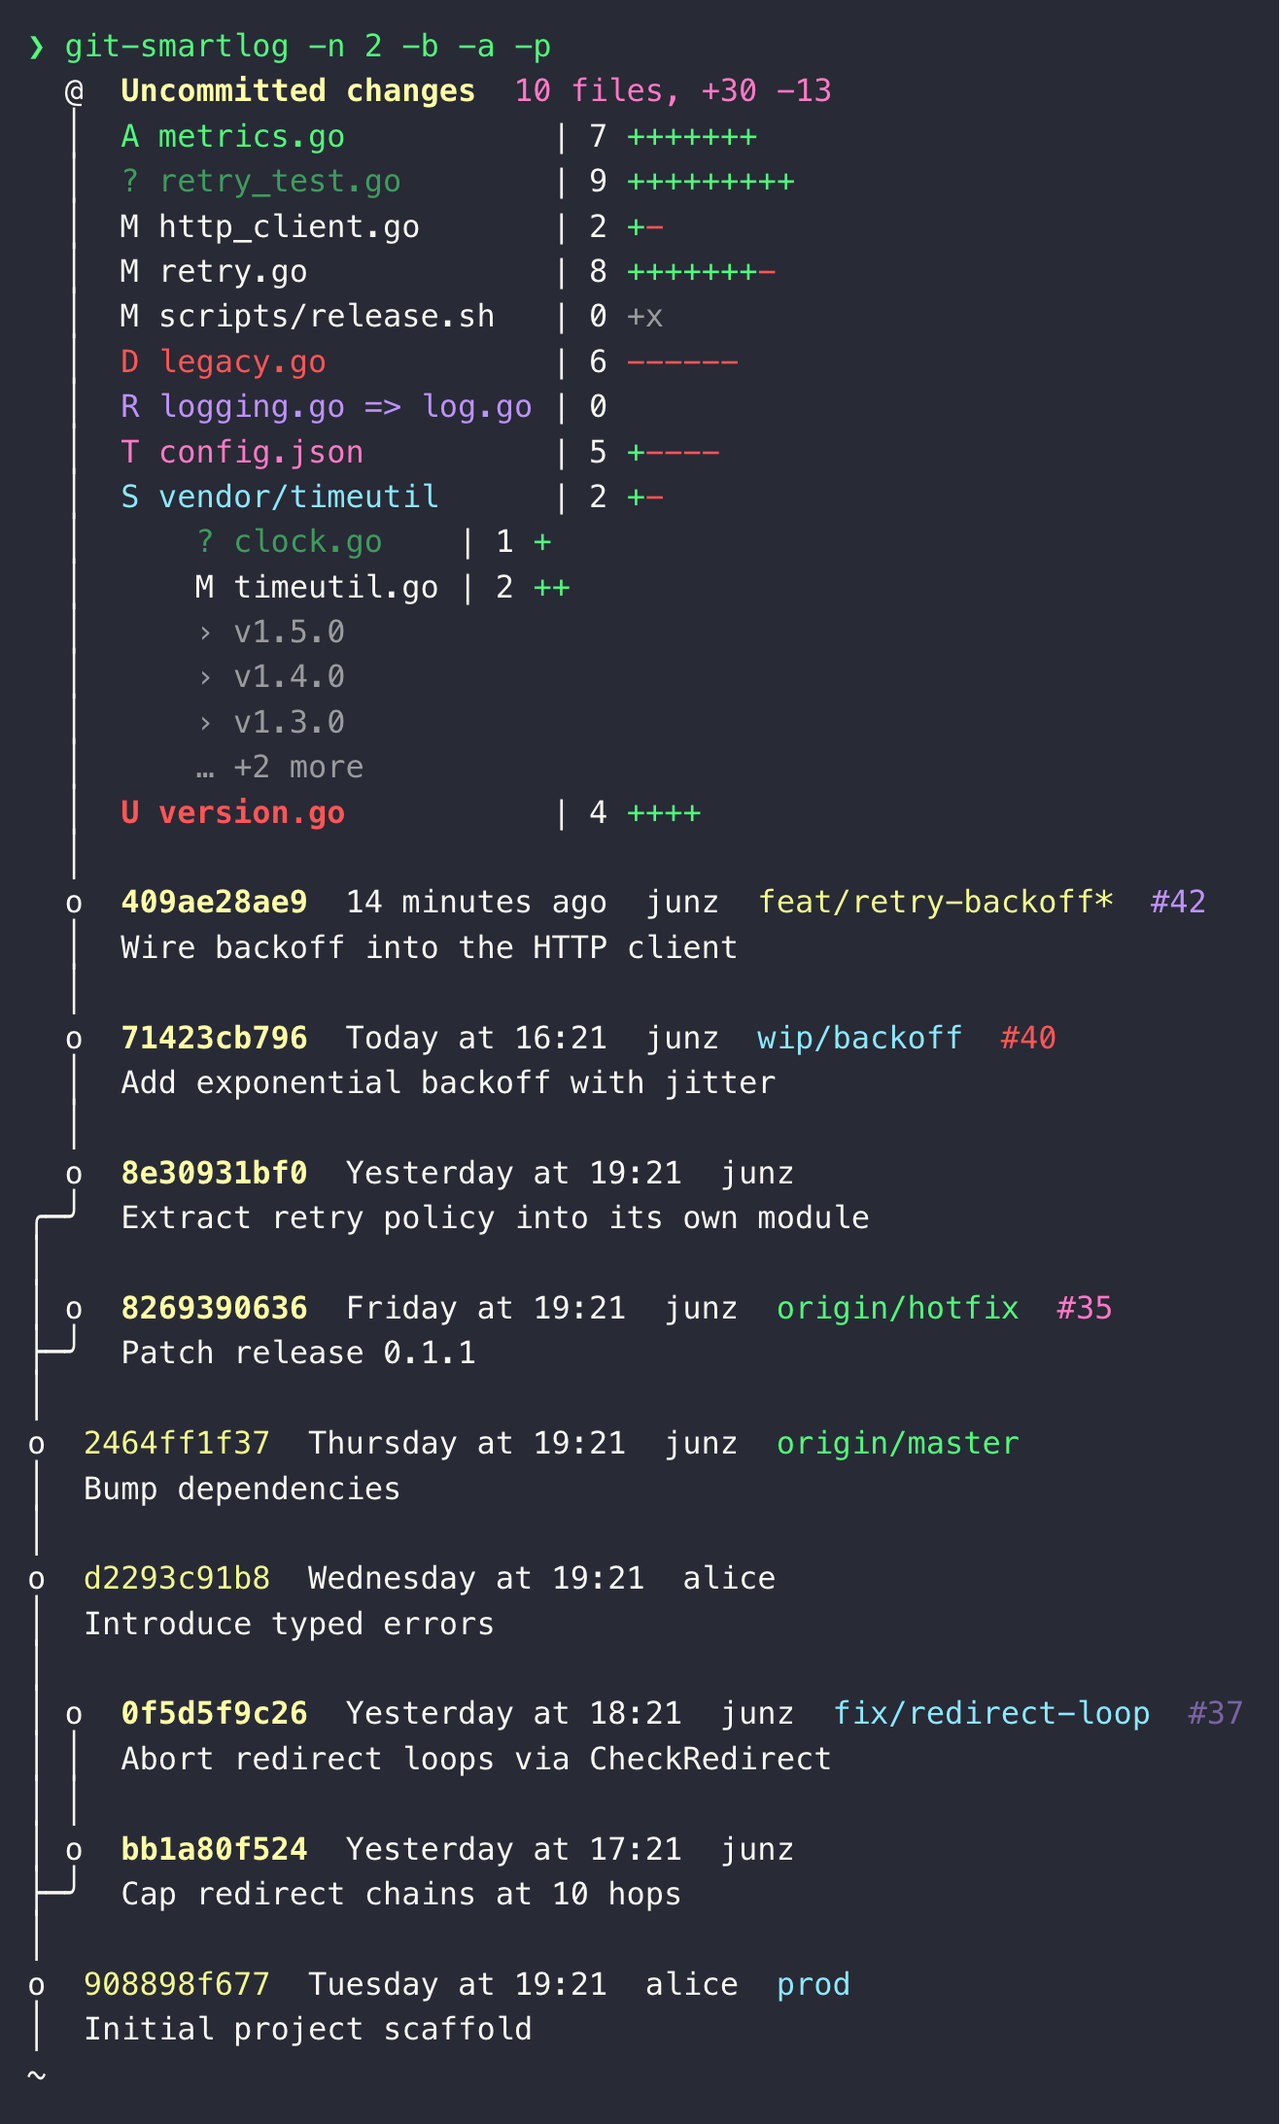
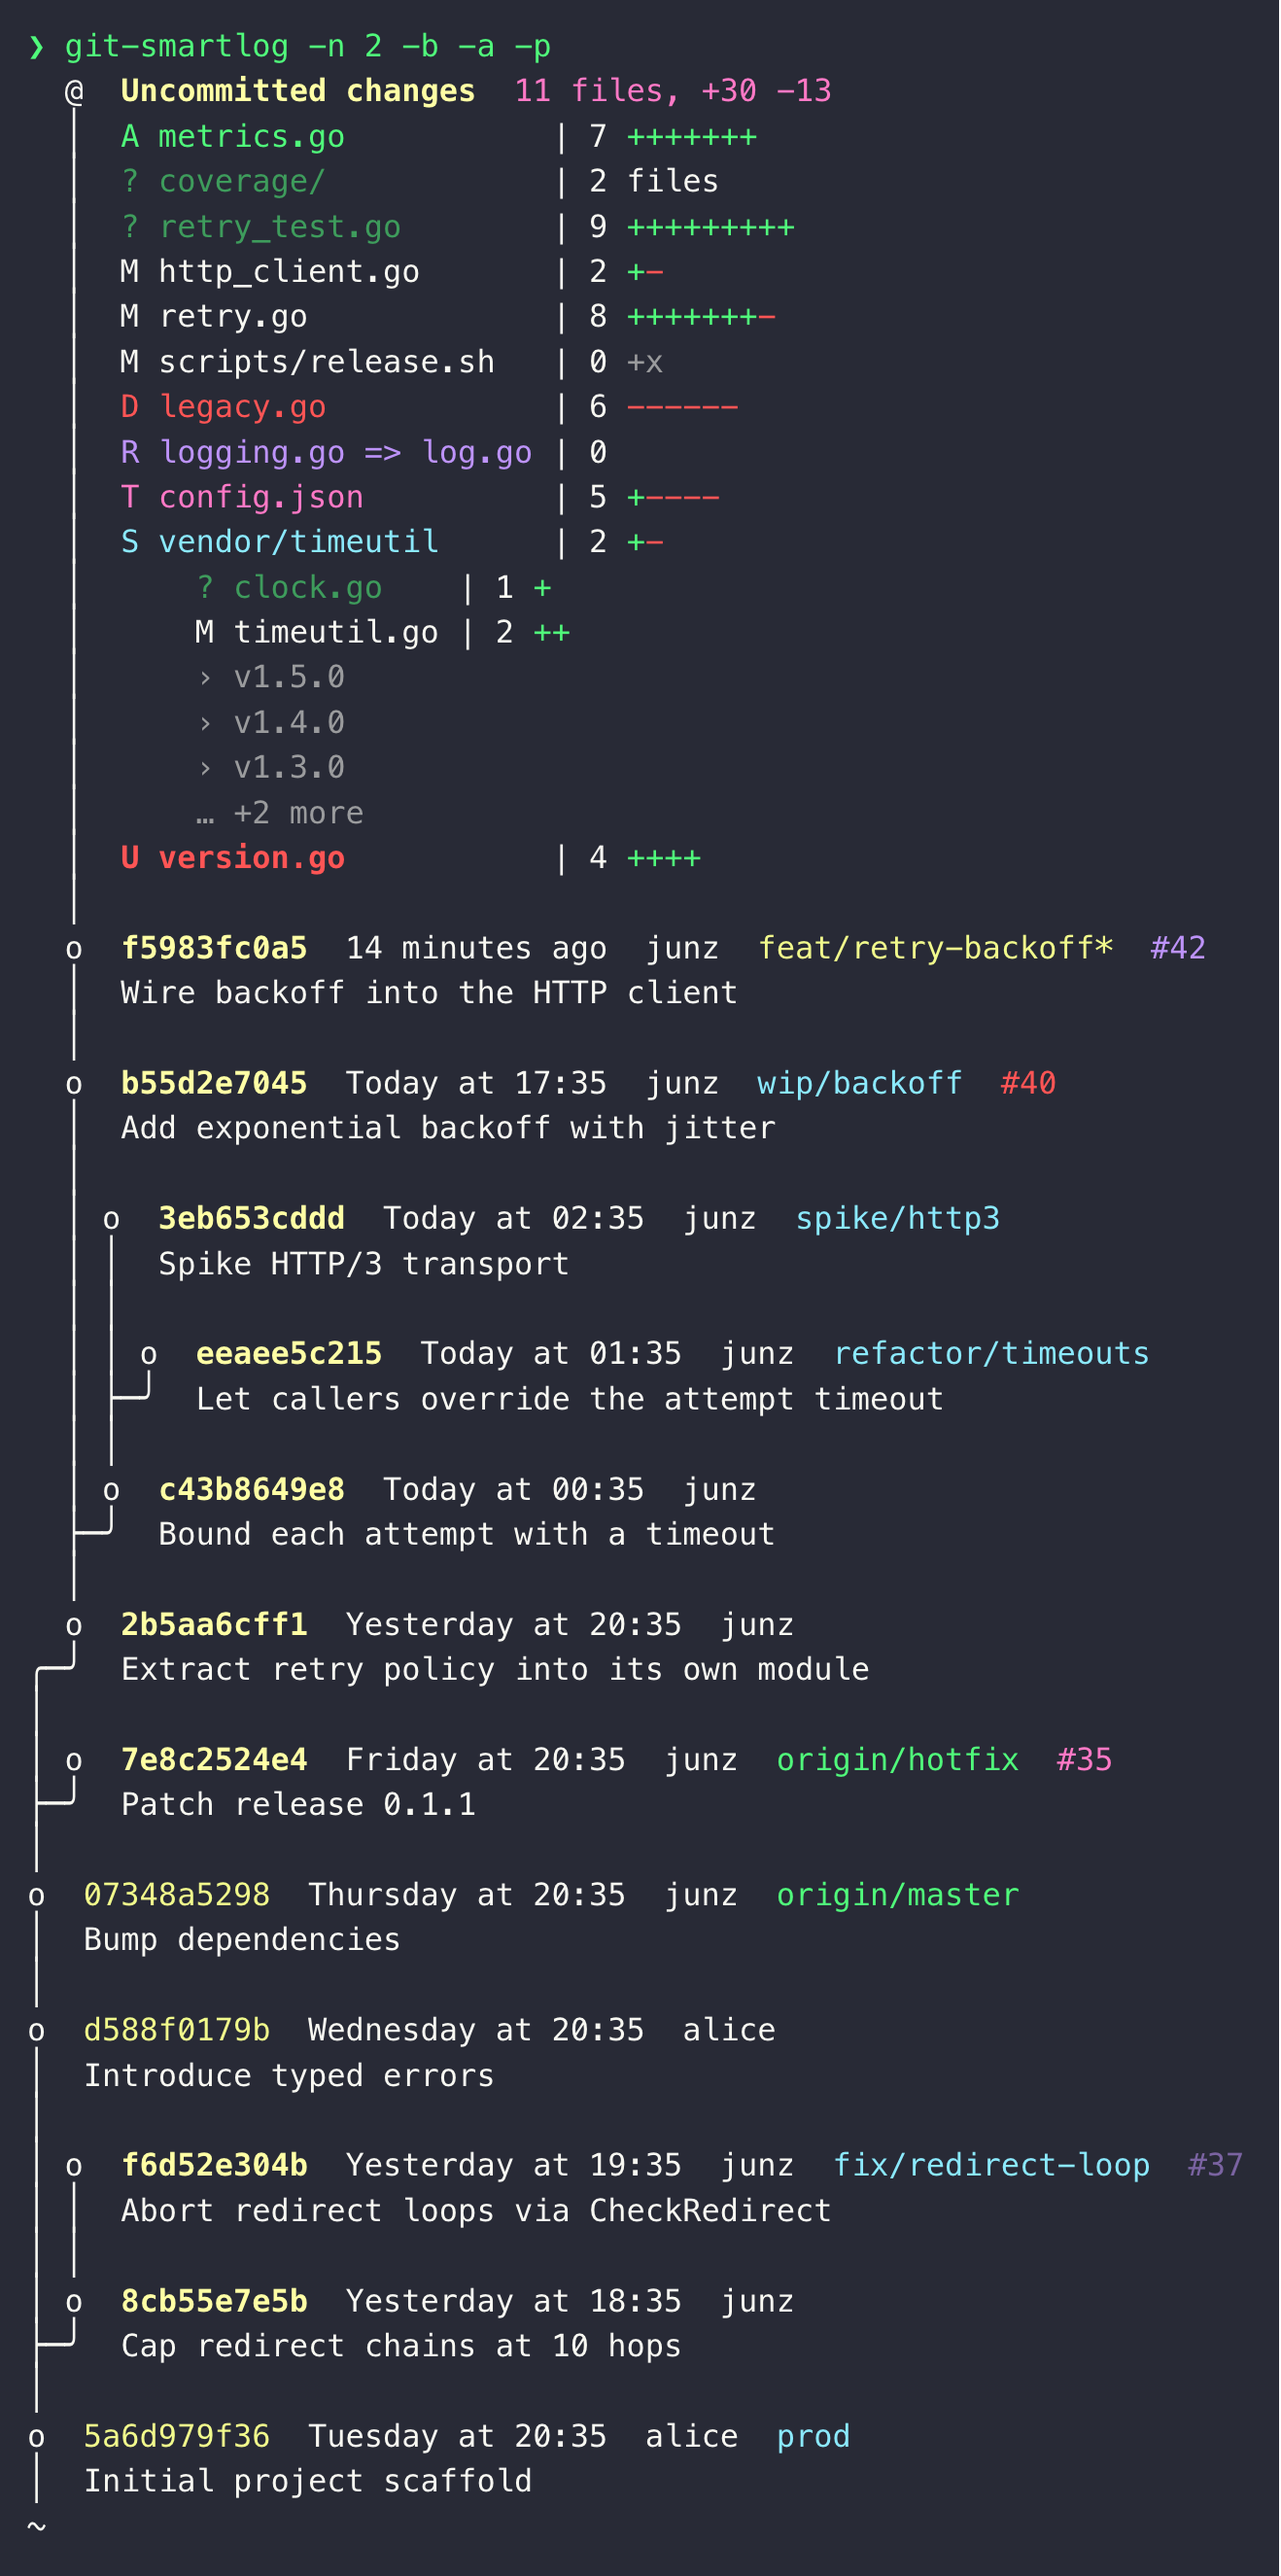
fix(demo): make every README example honest and reproducible
make-demo.sh's header says the demo covers every signal the -u node and
the -b view render. It did not. There was no wholly-untracked DIRECTORY,
so the "dir/ | N files" collapse never appeared, and no branch forking
off a DRAFT commit, so the -b forest was nothing but straight chains and
the fork layout — spine child continues the column, every other child
opens one a level deeper, closing with a ├─╯ bend — was never drawn at
all. Both signals were instead demonstrated by purpose-built repos
elsewhere, which is backwards: those existed because the demo had a hole.

So the demo grows coverage/ with two files inside, and refactor/timeouts
forking off a draft of the current stack with spike/http3 forking off a
draft of THAT branch, nesting the layout one level further. Plain -b now
draws the nesting, the dotted elision and every label rule in one graph,
and the two standalone examples fold into the blocks above them.

Separately, the first two examples were captured on a clean working tree
and never said so. That was invisible while the uncommitted node was
opt-in — plain git smartlog didn't draw one — and became load-bearing
when the node stopped being a flag. Their captures are still correct;
the precondition is now stated.

Examples and both screenshots re-captured throughout: the uncommitted
node goes from 10 files to 11.

Claude-Session: https://claude.ai/code/session_01FqXnKacDEWiXpJDjSASubY

diff --git a/README.md b/README.md
@@ -22,20 +22,21 @@ The story behind it is in
 
 ## Example
 
-On a feature branch with a few local commits stacked on `origin/master`:
+On a feature branch with a few local commits stacked on `origin/master`, with a
+clean working tree:
 
 ```text
 $ git smartlog
-  @  498df929d5  Today at 09:33  junz  feat/retry-backoff*
+  @  e6152ce8e3  14 minutes ago  junz  feat/retry-backoff*
   │  Wire backoff into the HTTP client
   │
-  o  ba482d2f0b  Today at 06:47  junz
+  o  6f1c5c322c  Today at 17:34  junz
   │  Add exponential backoff with jitter
   │
-  o  fa8075adfb  Yesterday at 09:47  junz
+  o  4166003ae8  Yesterday at 20:34  junz
 ╭─╯  Extract retry policy into its own module
 │
-o  c7283c280b  Wednesday at 09:47  junz  origin/master
+o  99b3100c38  Thursday at 20:34  junz  origin/master
 │  Bump dependencies
 ~
 ```
@@ -43,7 +44,8 @@ o  c7283c280b  Wednesday at 09:47  junz  origin/master
 `@` marks `HEAD`; the indented `o` nodes above the bend (`╭─╯`) are your unpushed
 draft commits, newest first. Below the bend sits the public base — the nearest
 pushed commit, here `origin/master` — and `~` marks the truncated history beyond
-it.
+it. This example and the next assume that clean tree: a dirty one always draws
+one more node on top, which is the section after them.
 
 Widen the public window with `-n`. Public commits authored by *someone else*
 render metadata-only (no author, no subject), exactly as Sapling does — see
@@ -53,22 +55,22 @@ public ones:
 
 ```text
 $ git smartlog -n 4
-  @  498df929d5  Today at 09:33  junz  feat/retry-backoff*
+  @  e6152ce8e3  14 minutes ago  junz  feat/retry-backoff*
   │  Wire backoff into the HTTP client
   │
-  o  ba482d2f0b  Today at 06:47  junz
+  o  6f1c5c322c  Today at 17:34  junz
   │  Add exponential backoff with jitter
   │
-  o  fa8075adfb  Yesterday at 09:47  junz
+  o  4166003ae8  Yesterday at 20:34  junz
 ╭─╯  Extract retry policy into its own module
 │
-o  c7283c280b  Wednesday at 09:47  junz  origin/master
+o  99b3100c38  Thursday at 20:34  junz  origin/master
 │  Bump dependencies
 │
-o  a21fc72b55  Tuesday at 09:47
+o  71068b2065  Wednesday at 20:34
 │
 │
-o  80cf810025  Monday at 09:47
+o  2438d674fc  Tuesday at 20:34
 │
 ~
 ```
@@ -116,8 +118,9 @@ git-smartlog extension with no Sapling equivalent, so the output no longer mirro
 
 ```text
 $ git smartlog -n 2
-  @  Uncommitted changes  10 files, +30 -13
+  @  Uncommitted changes  11 files, +30 -13
   │  A metrics.go           | 7 +++++++
+  │  ? coverage/            | 2 files
   │  ? retry_test.go        | 9 +++++++++
   │  M http_client.go       | 2 +-
   │  M retry.go             | 8 +++++++-
@@ -134,19 +137,19 @@ $ git smartlog -n 2
   │      … +2 more
   │  U version.go           | 4 ++++
   │
-  o  498df929d5  Today at 09:33  junz  feat/retry-backoff*
+  o  e6152ce8e3  14 minutes ago  junz  feat/retry-backoff*
   │  Wire backoff into the HTTP client
   │
-  o  ba482d2f0b  Today at 06:47  junz
+  o  6f1c5c322c  Today at 17:34  junz
   │  Add exponential backoff with jitter
   │
-  o  fa8075adfb  Yesterday at 09:47  junz
+  o  4166003ae8  Yesterday at 20:34  junz
 ╭─╯  Extract retry policy into its own module
 │
-o  c7283c280b  Wednesday at 09:47  junz  origin/master
+o  99b3100c38  Thursday at 20:34  junz  origin/master
 │  Bump dependencies
 │
-o  a21fc72b55  Tuesday at 09:47
+o  71068b2065  Wednesday at 20:34
 │
 ~
 ```
@@ -161,22 +164,45 @@ total in the header):
 
 ```text
 $ git smartlog -c
-  @  Uncommitted changes  1 file, +9 -0
-  │  ? retry_test.go | 9 +++++++++
+  @  Uncommitted changes  11 files, +30 -13
+  │  A metrics.go           | 7 +++++++
+  │  ? coverage/            | 2 files
+  │  ? retry_test.go        | 9 +++++++++
+  │  M http_client.go       | 2 +-
+  │  M retry.go             | 8 +++++++-
+  │  M scripts/release.sh   | 0 +x
+  │  D legacy.go            | 6 ------
+  │  R logging.go => log.go | 0
+  │  T config.json          | 5 +----
+  │  S vendor/timeutil      | 2 +-
+  │      ? clock.go    | 1 +
+  │      M timeutil.go | 2 ++
+  │      › v1.5.0
+  │      › v1.4.0
+  │      › v1.3.0
+  │      … +2 more
+  │  U version.go           | 4 ++++
   │
-  o  498df929d5  Today at 09:33  junz  feat/retry-backoff*
+  o  e6152ce8e3  14 minutes ago  junz  feat/retry-backoff*
   │  Wire backoff into the HTTP client
-  │  M http_client.go | 2 +-
-  │  M retry.go       | 8 +++++++-
-  │  2 files, +9 -1
+  │  M http_client.go | 15 ++++++++++++---
+  │  M version.go     |  2 +-
+  │  2 files, +13 -4
   │
-  o  ba482d2f0b  Today at 06:47  junz
+  o  6f1c5c322c  Today at 17:34  junz
   │  Add exponential backoff with jitter
-  │  A retry.go | 41 ++++++++++++++++++++++
-  │  1 file, +41 -0
+  │  A backoff.go | 13 +++++++++++++
+  │  M retry.go   |  7 +++++++
+  │  2 files, +20 -0
+  │
+  o  4166003ae8  Yesterday at 20:34  junz
+  │  Extract retry policy into its own module
+  │  A retry.go       | 11 +++++++++++
+  │  M http_client.go |  9 +++++----
+  │  2 files, +16 -4
 ╭─╯
 │
-o  c7283c280b  Wednesday at 09:47  junz  origin/master
+o  99b3100c38  Thursday at 20:34  junz  origin/master
 │  Bump dependencies
 ~
 ```
@@ -197,8 +223,9 @@ Alice's public commits their full headers:
 
 ```text
 $ git smartlog -n 2 -b -a
-  @  Uncommitted changes  10 files, +30 -13
+  @  Uncommitted changes  11 files, +30 -13
   │  A metrics.go           | 7 +++++++
+  │  ? coverage/            | 2 files
   │  ? retry_test.go        | 9 +++++++++
   │  M http_client.go       | 2 +-
   │  M retry.go             | 8 +++++++-
@@ -215,66 +242,112 @@ $ git smartlog -n 2 -b -a
   │      … +2 more
   │  U version.go           | 4 ++++
   │
-  o  498df929d5  Today at 09:33  junz  feat/retry-backoff*
+  o  e6152ce8e3  14 minutes ago  junz  feat/retry-backoff*
   │  Wire backoff into the HTTP client
   │
-  o  ba482d2f0b  Today at 06:47  junz  wip/backoff
+  o  6f1c5c322c  Today at 17:34  junz  wip/backoff
   │  Add exponential backoff with jitter
   │
-  o  fa8075adfb  Yesterday at 09:47  junz
+  │ o  29fd8b8adc  Today at 02:34  junz  spike/http3
+  │ │  Spike HTTP/3 transport
+  │ │
+  │ │ o  6c58835739  Today at 01:34  junz  refactor/timeouts
+  │ ├─╯  Let callers override the attempt timeout
+  │ │
+  │ o  8696775dd4  Today at 00:34  junz
+  ├─╯  Bound each attempt with a timeout
+  │
+  o  4166003ae8  Yesterday at 20:34  junz
 ╭─╯  Extract retry policy into its own module
 │
-│ o  0f9c309236  Thursday at 09:47  junz  origin/hotfix
+│ o  d34d226c1d  Friday at 20:34  junz  origin/hotfix
 ├─╯  Patch release 0.1.1
 │
-o  c7283c280b  Wednesday at 09:47  junz  origin/master
+o  99b3100c38  Thursday at 20:34  junz  origin/master
 │  Bump dependencies
 │
-o  a21fc72b55  Tuesday at 09:47  alice
+o  71068b2065  Wednesday at 20:34  alice
 │  Introduce typed errors
 │
-│ o  f6211c4f36  Yesterday at 08:47  junz  fix/redirect-loop
+│ o  fd5e793e05  Yesterday at 19:34  junz  fix/redirect-loop
 │ │  Abort redirect loops via CheckRedirect
 │ │
-│ o  d8adafbf34  Yesterday at 07:47  junz
+│ o  9d58ac5f6c  Yesterday at 18:34  junz
 ├─╯  Cap redirect chains at 10 hops
 │
-o  80cf810025  Monday at 09:47  alice  prod
+o  2438d674fc  Tuesday at 20:34  alice  prod
 │  Initial project scaffold
 ~
 ```
 
 At each fork the spine child (the one on `HEAD`'s path, else the newest subtree)
 continues the column and every other child opens a column one level deeper,
-newest first, closing with a `├─╯` bend right above the fork:
+newest first, closing with a `├─╯` bend right above the fork. Narrow the public
+window back to the default and the elision shows up too:
 
 ```text
 $ git smartlog -b
-  @  65782fe20b  Thursday at 13:00  junz  stack-z*
-  │  stack-z: z1
+  @  Uncommitted changes  11 files, +30 -13
+  │  A metrics.go           | 7 +++++++
+  │  ? coverage/            | 2 files
+  │  ? retry_test.go        | 9 +++++++++
+  │  M http_client.go       | 2 +-
+  │  M retry.go             | 8 +++++++-
+  │  M scripts/release.sh   | 0 +x
+  │  D legacy.go            | 6 ------
+  │  R logging.go => log.go | 0
+  │  T config.json          | 5 +----
+  │  S vendor/timeutil      | 2 +-
+  │      ? clock.go    | 1 +
+  │      M timeutil.go | 2 ++
+  │      › v1.5.0
+  │      › v1.4.0
+  │      › v1.3.0
+  │      … +2 more
+  │  U version.go           | 4 ++++
   │
-  │ o  d899e778d8  Thursday at 12:00  junz  stack-y
-  ├─╯  stack-y: y2
+  o  e6152ce8e3  14 minutes ago  junz  feat/retry-backoff*
+  │  Wire backoff into the HTTP client
   │
-  o  5b0280f16a  Thursday at 11:00  junz
-  │  stack-y: y1
+  o  6f1c5c322c  Today at 17:34  junz  wip/backoff
+  │  Add exponential backoff with jitter
   │
-  │ o  5bd7e02a2d  Thursday at 10:00  junz  stack-x
-  ├─╯  stack-x: s2
+  │ o  29fd8b8adc  Today at 02:34  junz  spike/http3
+  │ │  Spike HTTP/3 transport
+  │ │
+  │ │ o  6c58835739  Today at 01:34  junz  refactor/timeouts
+  │ ├─╯  Let callers override the attempt timeout
+  │ │
+  │ o  8696775dd4  Today at 00:34  junz
+  ├─╯  Bound each attempt with a timeout
   │
-  o  9f4446f146  Thursday at 09:00  junz
-╭─╯  shared: s1
+  o  4166003ae8  Yesterday at 20:34  junz
+╭─╯  Extract retry policy into its own module
 │
-o  5db4e75a60  Wednesday at 10:00  junz  origin/master
-│  public two
+│ o  d34d226c1d  Friday at 20:34  junz  origin/hotfix
+├─╯  Patch release 0.1.1
+│
+o  99b3100c38  Thursday at 20:34  junz  origin/master
+╷  Bump dependencies
+╷
+╷ o  fd5e793e05  Yesterday at 19:34  junz  fix/redirect-loop
+╷ │  Abort redirect loops via CheckRedirect
+╷ │
+╷ o  9d58ac5f6c  Yesterday at 18:34  junz
+╭─╯  Cap redirect chains at 10 hops
+│
+o  2438d674fc  Tuesday at 20:34  prod
+│
 ~
 ```
 
-Here `stack-y` forks from a draft (`shared: s1`) and `stack-z` forks from a draft
-of `stack-y` — the layouts Sapling's renderdag produces for the same topology,
-verified against it. Labels, `╷` elision, and the remote-name rule all work as in
-`-b`, and a dirty working tree draws its uncommitted node directly above `HEAD`
-wherever it sits in the tree.
+Here `refactor/timeouts` forks off a draft of the current stack and
+`spike/http3` off a draft of *that* branch, so the layout nests one level
+further — what Sapling's renderdag produces for the same topology, verified
+against it. Below `origin/master`, `fix/redirect-loop`'s fork point sits two
+commits down the trunk, so the commit between them elides to the dotted `╷`
+spine. A dirty working tree draws its uncommitted node directly above `HEAD`,
+wherever `HEAD` sits in the tree.
 
 With `-p` / `--prs` (needs the [GitHub CLI](https://cli.github.com/)), every
 branch name shown on a commit that has a GitHub PR gets a trailing `#N` tag —
@@ -399,8 +472,9 @@ Prints nothing when the working tree is clean. The same block git-smartlog draws
 
 ```text
 $ git smartstat
-10 files, +30 -13
+11 files, +30 -13
  A metrics.go           | 7 +++++++
+ ? coverage/            | 2 files
  ? retry_test.go        | 9 +++++++++
  M http_client.go       | 2 +-
  M retry.go             | 8 +++++++-
@@ -422,17 +496,11 @@ $ git smartstat
   <img src="screenshots/smartstat.png" alt="git smartstat output, color-coded by change kind" width="560">
 </p>
 
-Wholly-untracked directories collapse to a single entry — the way `git status`
+A wholly-untracked directory collapses to a single entry — the way `git status`
 lists a new directory — with a file count in place of the `+`/`-` graph,
-right-justified into the same column as git's per-file line counts:
-
-```text
-$ git smartstat
-3 files, +15 -0
- ? .cache/   |  2 files
- ? notes.txt | 14 ++++++++++++++
- M app.py    |  1 +
-```
+right-justified into the same column as git's per-file line counts. That's the
+`coverage/` line above: two files inside, one line out, and it counts as one
+entry in the `11 files` total rather than two.
 
 Paths are shown in full up to your terminal width; like `git diff --stat`, they
 shorten to a leading `...tail` only when the terminal is too narrow to fit them
